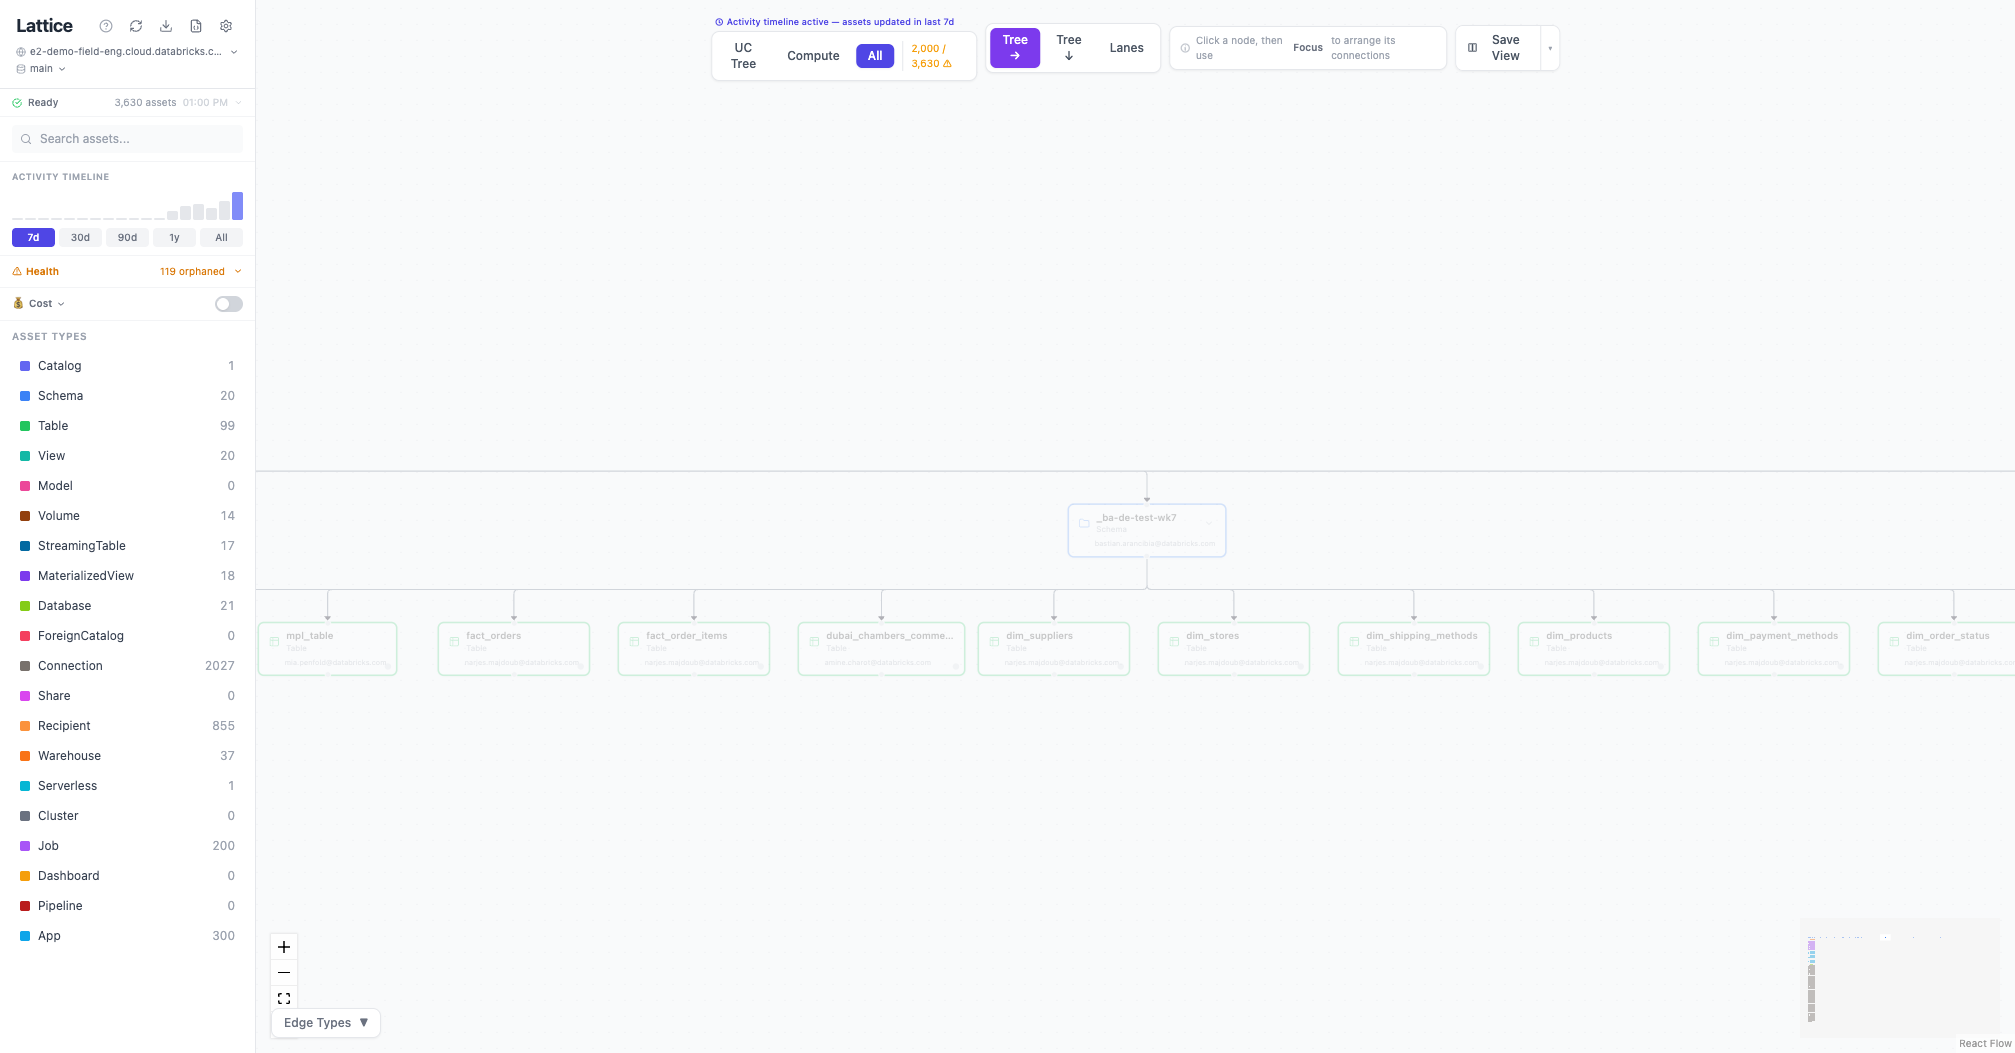
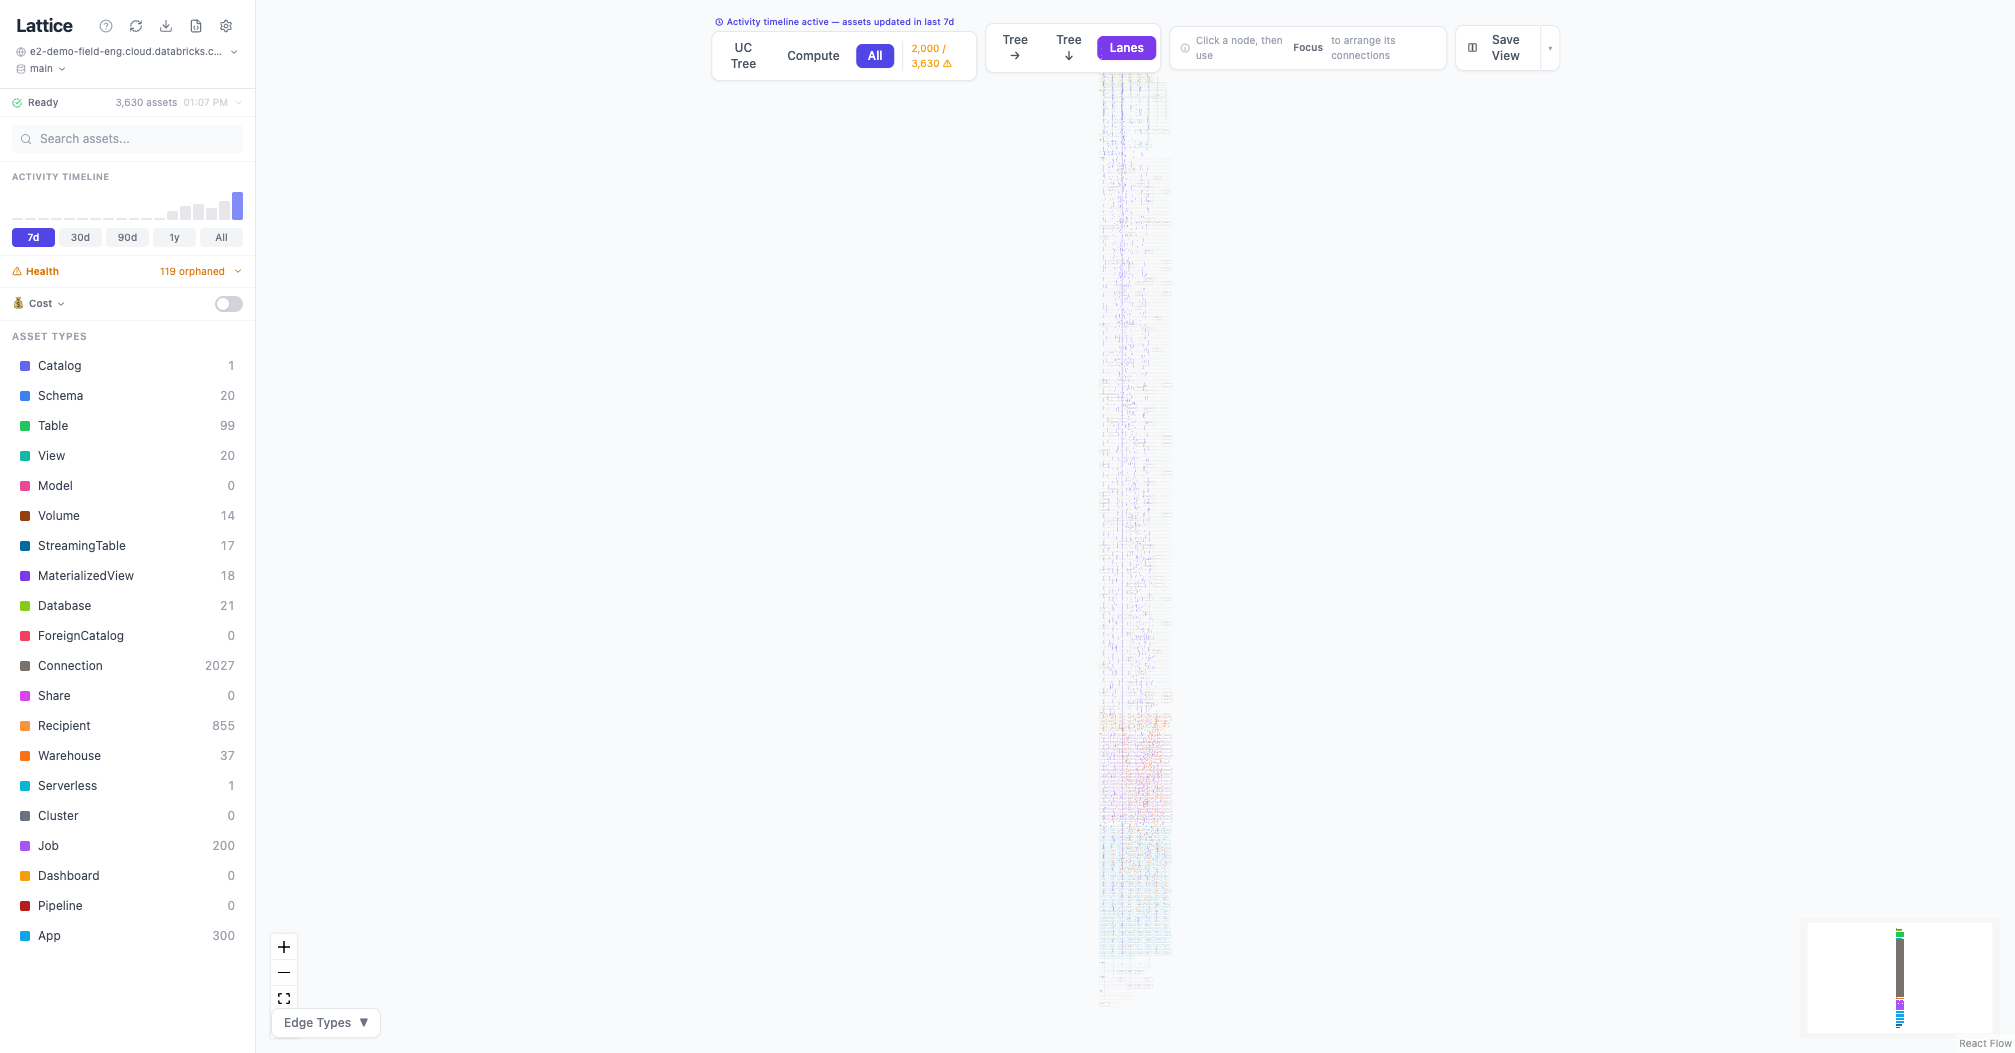
Add creator credit and update screenshots
Add Mike Kahn as creator in README. Update focus view, save view,
and activity timeline screenshots with improved compositions.

diff --git a/README.md b/README.md
@@ -32,6 +32,8 @@ Lattice maps all Unity Catalog assets, compute resources, jobs, dashboards, apps
 
 ![Stack](https://img.shields.io/badge/React-19-blue) ![Stack](https://img.shields.io/badge/FastAPI-0.115-green) ![Stack](https://img.shields.io/badge/NetworkX-3.x-orange) ![Stack](https://img.shields.io/badge/Databricks_SDK-0.40+-red)
 
+**Created by** Mike Kahn — [mike.kahn@databricks.com](mailto:mike.kahn@databricks.com)
+
 ---
 
 ## Screenshots
